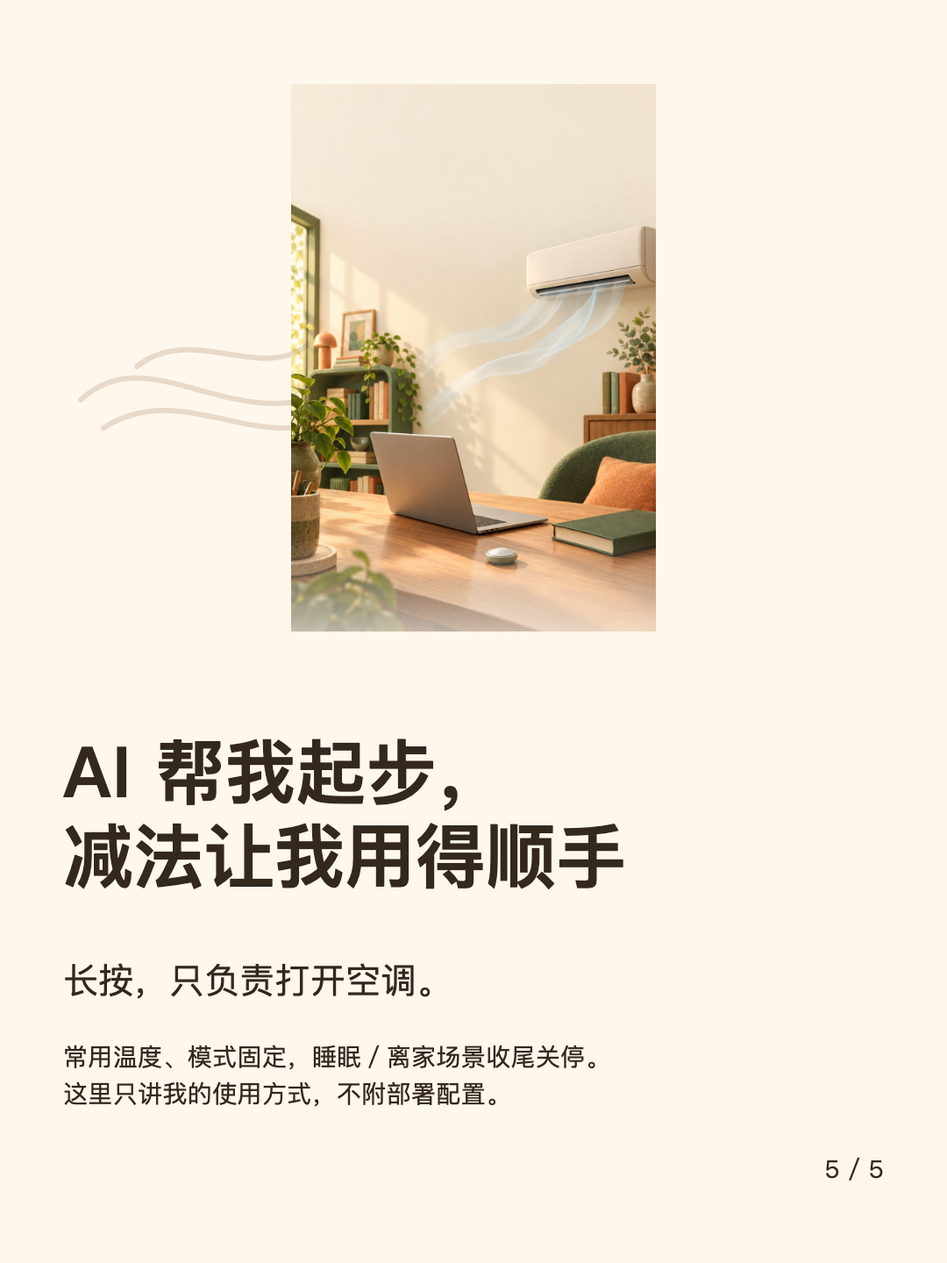
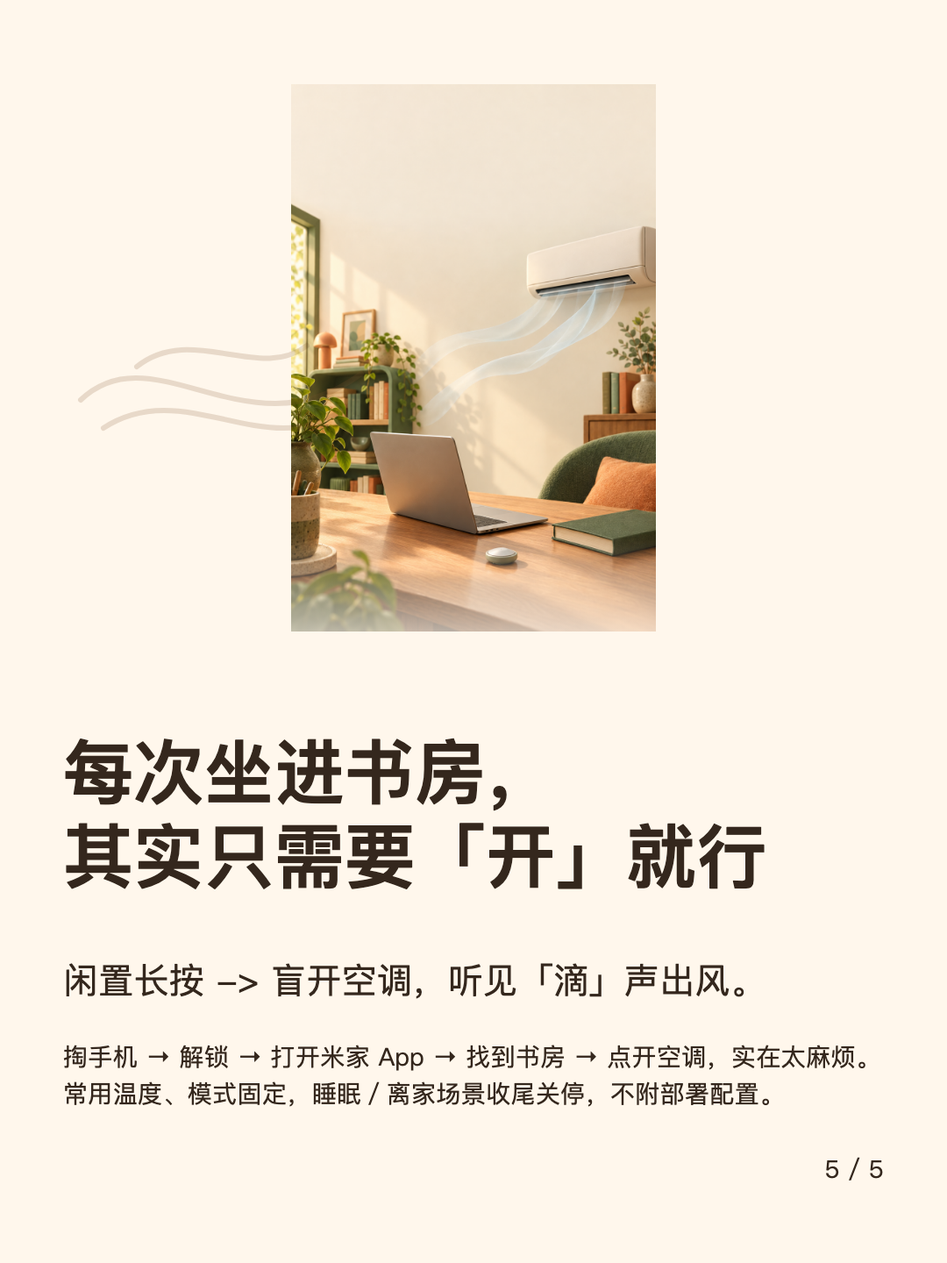
feat(tia-457): align Blog and 15 XHS 3:4 cards to canonical four-act text

Changed region(s): [[0.0611, 0.5625, 0.825, 0.7188], [0.0611, 0.75, 0.9167, 0.875]]

diff --git a/demos/xhs-study-switch-ac/index.html b/demos/xhs-study-switch-ac/index.html
@@ -8,7 +8,7 @@
 </style></head>
 <body><header class="site-header shell"><div class="site-header__bar"><a class="brand" href="/"><span class="brand__mark" aria-hidden="true">L</span><span>LeePepe</span></a><nav class="nav" aria-label="主导航"><a href="/">首页</a><a href="/learn/">求知</a><a href="/thoughts/">思考</a><a href="/demos/" aria-current="page">Demos</a></nav><div class="theme-toggle" aria-label="主题"><button type="button" data-theme-choice="light" aria-pressed="false">浅色</button><button type="button" data-theme-choice="dark" aria-pressed="false">深色</button><button type="button" data-theme-choice="system" aria-pressed="false">系统</button></div></div></header><main class="xhs-shell">
 <nav class="crumbs" aria-label="面包屑"><a href="/">← 返回 Blog 首页</a><span aria-hidden="true">·</span><a href="/demos/">返回 Demos 总目录</a></nav>
-<header class="hero"><p class="eyebrow">TIA-457 · XHS STUDY SWITCH</p><h1>长按开空调，少一道选择题</h1><p>把一篇真实的智能家居生活记录，拆成三套真正不同的 3:4 小红书研究样张（每套 5 张，共 15 张）。故事已补全装修搁置、2025 年 AI 起步、睡前买多的测试键和闲置长按。这里展示的是离线制图与研究证据，不是小红书已发布内容。</p><p><a href="/thoughts/study-switch-long-press-ac/">阅读完整更新后的 Blog 故事 →</a> · T2 故事更新；T1 制图与工具实测保留，未重新生成 AI 底图。</p></header>
+<header class="hero"><p class="eyebrow">TIA-457 · XHS STUDY SWITCH</p><h1>长按开空调，少一道选择题</h1><p>把一篇真实的智能家居生活记录，拆成三套真正不同的 3:4 小红书研究样张（每套 5 张，共 15 张）。完整呈现钦定四幕：「装修搁置：这七七八八的东西也太多了」「25 年 AI 破局：搭好骨架，实测自己抠」「买多了的无线开关：随手放书房当测试键」与「夏天的神来之笔：闲置长按 → 盲开空调（闲置长按 -> 盲开空调）」。这里展示的是离线制图与研究证据，不是小红书已发布内容。</p><p><a href="/thoughts/study-switch-long-press-ac/">阅读完整钦定四幕 Blog 正文 →</a> · T3 钦定四幕对齐更新；T1 制图与工具实测保留，未重新生成 AI 底图。</p></header>
 <section class="section" aria-labelledby="research"><h2 id="research">先看结论</h2><div class="summary-grid"><article class="panel"><h3>内容链路</h3><p>原始文章 → HTML/CSS/SVG 排版 → Playwright 截图 → 人工检查 → 用户在官方平台手动发布。</p><p><strong>长按 = 打开空调</strong>，不是 toggle；24℃只作示意，99%是原文修辞。</p></article><article class="panel"><h3>当前推荐</h3><p>离线生成原创 PNG，人工检查事实、素材与 AI 标识，再由用户在官方创作者平台完成操作。没有登录、上传、保存草稿或发布。</p></article><article class="panel"><h3>安全边界</h3><p>不采集 Cookie，不开远程调试，不绕过验证码，不做签名/API 规避。Bridge/Playwright 草稿流仅是未来在获授权后评估的条件选项。</p></article></div></section>
 <section class="section"><h2>能力实测与版本 caveat</h2><div class="matrix"><article class="panel"><h3>可复现成功</h3><ul><li>Magpie <code>/v1/models</code>：HTTP 200。</li><li>Raven local GPT-5.3-codex SVG：HTTP 200，10.24s。</li><li>GPT-4.1 vision：HTTP 200，4.27s。</li><li>Gemini 4 Argon bounded SVG：HTTP 200，20.5s，valid XML。</li><li>Copilot builtin image_generation：两张 1024×1536 原创背景，模型未披露。</li></ul></article><article class="panel"><h3>不可用或需谨慎</h3><ul><li>初始 Gemini 长 SVG 曾截断；展示 bounded iteration，不抹掉迭代事实。</li><li>Cursor Claude Opus 4.8 / Fable 5.2：HTTP 429 quota，未购买 credits。</li><li>GPT image endpoints：HTTP 404；authenticated Raven models HTTP 200，但 image endpoint 仍 404。</li><li><code>gpt-image-2.5-flare</code> 出现在 models，但 responses HTTP 400 model_not_supported。</li></ul></article></div><p class="source-list">证据：Goal handoff 的 source-verified research findings 与本地探针摘要（未将私有工作文件路径发布）；公开页仅保留已脱敏结论。证据置信度最高为 MEDIUM，版本与平台条款需独立复核。</p></section>
 <section class="section"><h2>工具链与风险矩阵</h2><div class="matrix"><article class="panel"><h3>公开源码观察</h3><ul><li><a href="https://github.com/bozhouDev/xhs-article-to-images">bozhouDev/xhs-article-to-images</a>：HTML/Playwright，版式建议不是平台规则。</li><li><a href="https://github.com/Ming-H/xhs-image-generator">Ming-H/xhs-image-generator</a>：frontmatter 边界错误时，前两个 <code>---</code> 可能吞掉内容。</li><li><a href="https://github.com/chang-zy/xiaohongshu-skill">chang-zy/xiaohongshu-skill</a> / <a href="https://github.com/autoclaw-cc/xiaohongshu-skills">autoclaw</a>：Bridge 草稿操作不等于 live draft 或授权。</li><li><a href="https://github.com/xpzouying/xiaohongshu-mcp">xpzouying MCP</a>、<a href="https://github.com/jobsonlook/xhs-mcp">jobsonlook MCP</a>：能力边界不同，热度不是安全证据。</li></ul></article><article class="panel"><h3>编辑建议 ≠ 官方规则</h3><p>≤40% 文字、≤3 行、无首行缩进是编辑/风险控制建议，没有独立官方证据证明是强制规则；没有 safe daily posting guarantee。AI 内容创作不等同于无人值守账号操作。当前推荐人工在官方平台操作并按要求标识 AI 内容。</p><p><strong>Genjutsu</strong> 是本机 native SwiftUI UI/动效设计 skill，不是 Web 栅格生图模型。离开书房、睡眠与离家关停是原文描述的家庭 cleanup 行为，本页不提供可部署自动化。</p></article></div></section><section class="section"><h2>三套样张画廊</h2><div id="suites"></div></section>
@@ -22,25 +22,25 @@ const suites=[
   {
     "id": "style-a",
     "name": "Style A · 指尖减法",
-    "summary": "暖纸杂志五页：从装修搁置与 AI 起步，到睡前买多的测试键，再把米家五步收束成一个长按。",
-    "title": "买多的开关，替我做了减法",
-    "body": "最顺手的空调改动，来自买多的一颗开关。\n它先当书房测试键，后来才接住了找遥控器的痛点。\n\n装修时想装 NAS，HA、Node-RED 门槛高，一直搁置。\n2025 年，AI 帮我生成 YAML 和初步 Node-RED 骨架。\n实机测试、微调，还是得我自己来。\n\n为了睡前关灯、拉窗帘，我把无线开关买多了。\n一颗放书房桌上，连进 Node-RED 当测试键。\n\n夏天只剩一个共用遥控器，米家也总打断思路。\n掏手机→解锁→打开米家→找书房→点开机。\n在 Node-RED 里，把闲置长按接上了书房空调。\n\n常用温度和模式固定，关停由睡眠、离家场景收尾。\n每次坐下只需要「开」，长按，只负责打开。\nAI 让我能开始，减法让手边这一下更确定。\n\n#智能家居 #减法设计 #书房 #NodeRED",
+    "summary": "暖纸杂志五页：从「这七七八八的东西也太多了」与「25 年 AI 破局：搭好骨架，实测自己抠」，到「买多了的无线开关：随手放书房当测试键」，再到「闲置长按 → 盲开空调」。",
+    "title": "为什么我给书房按键加了长按开空调",
+    "body": "装修搁置：这七七八八的东西也太多了。\n想装台 NAS 玩全屋智能，被 HA 和 Node-RED 的配置劝退搁置。\n\n25 年 AI 破局：搭好骨架，实测自己抠。\nAI 直接帮我写 YAML 配置、搭初步的 Node-RED 流程。\n真正的实机测试、延迟调节和边界排障还得我自己动手一点点来。\n\n买多了的无线开关：随手放书房当测试键。\n本想睡觉时「一键入眠」（顺手关灯、关窗帘），结果不小心买多了。\n多出来的一个放书房桌边，从 Node-RED 连条流当平时调试的测试键。\n\n夏天的神来之笔：闲置长按 → 盲开空调（闲置长按 -> 盲开空调）。\n家里只剩一个空调遥控器，米家 App 每次都要走完五步：\n掏手机 → 解锁 → 打开米家 App → 找到书房 → 点开空调。\n\n直接在 Node-RED 里把闲置「长按」接上书房空调。\n因为每次坐进书房，其实只需要「开」就行。\n长按一下听见「滴」声出风，零心智负担。\n\n#智能家居 #减法设计 #书房 #NodeRED #HomeAssistant",
     "count": 5
   },
   {
     "id": "style-b",
     "name": "Style B · 手边的一点暖光",
-    "summary": "暖光微缩五页：旧 AI 场景陪着完整因果故事，讲清 AI 骨架、人工微调、睡前剩余开关与闲置长按。",
-    "title": "一颗测试键，后来管了空调",
-    "body": "这颗书房开关，本来不是为空调买的。\n绕了一圈才发现，买多的东西也能让日常更顺手。\n\n装修想装 NAS，但 HA 和 Node-RED 太难，我先搁置。\n到了 2025 年，AI 能生成 YAML、搭初步 Node-RED 骨架。\n设备上的实机测试和微调，没有省，仍然是我自己来。\n\n睡前想关灯、拉窗帘，就买了无线开关，结果买多。\n多的一颗落在书房桌上，在 Node-RED 里当测试键。\n\n夏天只剩一个共用遥控器，不想总去找。\n掏手机→解锁→打开米家→找书房→点开机，也挺分心。\n于是就在 Node-RED，把闲着的长按接上书房空调。\n\n温度、模式固定，睡眠和离家会收尾关停。\n长按，只负责打开，听见「滴」就结束。\nAI 帮我起步，好设计帮我少做选择。\n\n#智能家居 #书房日常 #减法设计 #生活小改动",
+    "summary": "暖光微缩五页：AI 场景插画配合四幕原话，讲清装修搁置、25 年 AI 搭好骨架实测自己抠、买多了的无线开关当测试键与闲置长按盲开空调。",
+    "title": "买多了的无线开关，成了盲开空调神键",
+    "body": "装修那会儿想装台 NAS 玩全屋智能，打开 HA 和 Node-RED 一看：\n这七七八八的东西也太多了，入手门槛高得劝退，就搁置了一段时间。\n\n25 年 AI 破局：搭好骨架，实测自己抠。\nAI 能帮我写 YAML 配置、完成初步的 Node-RED 流程。\n但真正的实机测试、延迟调节和边界排障还得我自己动手一点点来。\n\n买多了的无线开关：随手放书房当测试键。\n当时最刚需是睡觉时「一键入眠」（顺手关灯、关窗帘），结果买多了。\n多出来的一个随手放书房桌边，从 Node-RED 连条流当测试键。\n\n到了夏天书房需要开空调，家里偏偏只剩一个空调遥控器了。\n掏手机 → 解锁 → 打开米家 App → 找到书房 → 点开空调，实在太麻烦。\n低头看见桌边无线开关，「长按」刚好闲置（闲置长按 -> 盲开空调）。\n\n干脆直接在 Node-RED 里把「长按」接上了书房空调。\n因为每次坐进书房，其实只需要「开」就行。\n长按一下听见「滴」声出风，零心智负担。\n\n#智能家居 #书房日常 #减法设计 #NodeRED #生活小改动",
     "count": 5
   },
   {
     "id": "style-c",
     "name": "Style C · 找东西的小迷宫",
-    "summary": "奶油手绘五页：画出装修高台阶、AI 文档与人工扳手、睡前到书房的分岔，再走完米家五步和长按出风。",
-    "title": "多买一颗，少绕一圈",
-    "body": "我只想吹个风，不想先找遥控器。\n后来解决这件事的，是桌边买多的一颗测试开关。\n\n装修那会儿想装 NAS，HA、Node-RED 门槛高，只好搁置。\n2025 年有了 AI，YAML 和初步 Node-RED 骨架先搭起来。\n剩下的实机测试、微调，是我自己一点点做的。\n\n为了睡前关灯、拉窗帘，无线开关不小心买多了。\n一颗留在书房桌上，接进 Node-RED 做测试键。\n\n夏天只剩一个共用遥控器，找它烦，用米家也绕。\n掏手机→解锁→打开米家→找书房→点开机。\n在 Node-RED 里，让闲置长按接上书房空调。\n\n常用温度、模式固定，睡眠／离家场景收尾关停。\n长按，只负责打开，不是开关切换。\nAI 降低了起步门槛，减法把复杂留在了背后。\n\n#智能家居 #书房日常 #减法设计 #NodeRED",
+    "summary": "奶油手绘五页：手绘分镜还原「这七七八八的东西也太多了」「搭好骨架，实测自己抠」「买多了的无线开关当测试键」与米家五步对比长按出风。",
+    "title": "闲置长按盲开空调，少一个遥控器",
+    "body": "装修搁置：这七七八八的东西也太多了。\n当时想装台 NAS 玩全屋智能，结果被 HA 和 Node-RED 的门槛劝退搁置。\n\n25 年 AI 破局：搭好骨架，实测自己抠。\nAI 帮我写 YAML、搭初步 Node-RED 流程；\n实机测试、延迟调节和边界排障还得我自己动手一点点来。\n\n买多了的无线开关：随手放书房当测试键。\n为睡觉「一键入眠」（顺手关灯、关窗帘）买多了开关，\n随手放书房桌边，在 Node-RED 里连了一条流当测试键。\n\n夏天的神来之笔：闲置长按 → 盲开空调（闲置长按 -> 盲开空调）。\n家里只剩一个空调遥控器，用米家 App 开又太麻烦：\n掏手机 → 解锁 → 打开米家 App → 找到书房 → 点开空调。\n\n干脆在 Node-RED 里把闲置「长按」接上书房空调。\n因为每次坐进书房，其实只需要「开」就行，\n长按一下听见「滴」声出风，零心智负担。\n\n#智能家居 #书房日常 #减法设计 #NodeRED #HomeAssistant",
     "count": 5
   }
 ];

diff --git a/thoughts/study-switch-long-press-ac/index.html b/thoughts/study-switch-long-press-ac/index.html
@@ -5,7 +5,7 @@
 <meta name="viewport" content="width=device-width, initial-scale=1">
 <link rel="icon" href="data:,">
 <title>为什么我给书房按键加了「长按开空调」 · Lee Pepe</title>
-<meta name="description" content="装修想装 NAS，却因 HA / Node-RED 门槛高搁置；2025 年 AI 帮我生成 YAML 和初步骨架，实机测试、微调仍得自己来。为睡前关灯、拉窗帘买多的一颗无线开关，先放书房当 Node-RED 测试键；夏天只剩一个共用遥控器，米家又让人分心，于是在 Node-RED 把闲置长按接上空调。AI 让我能开始，减法让每次坐下只需一个确定的「开」。">
+<meta name="description" content="装修时想装 NAS 玩全屋智能，被 HA 和 Node-RED 七七八八的配置劝退搁置；25 年有了 AI 帮写 YAML、搭 Node-RED 初步流，实测和微调再自己动手。为睡前「一键入眠」买多的一颗无线开关随手放在书房当测试键，到了夏天只剩一个空调遥控器、米家 App 开机又太繁琐，干脆在 Node-RED 里把闲置的「长按」接上书房空调——因为每次坐进书房，其实只需要「开」就行。">
 <link rel="alternate" type="application/atom+xml" title="Lee Pepe · RSS 订阅" href="/feed.xml">
 <script src="/assets/theme.js"></script>
 <link rel="stylesheet" href="/assets/colors.css">
@@ -31,36 +31,19 @@
           <ul class="tags" aria-label="标签"><li><a class="tag" href="/tags/#t19">智能家居</a></li><li><a class="tag" href="/tags/#t13">书房</a></li><li><a class="tag" href="/tags/#t15">减法设计</a></li><li><a class="tag" href="/tags/#t7">Home Assistant</a></li></ul>
           <h1>为什么我给书房按键加了「长按开空调」</h1>
           <p class="lede">少一个遥控器，多一次顺手的肌肉记忆</p>
-          <div class="post-meta"><time datetime="2026-11-09">2026 年 11 月 9 日</time><span class="dot" aria-hidden="true">·</span><span>约 1,600 字</span><span class="dot" aria-hidden="true">·</span><span>阅读约 4 分钟</span></div>
+          <div class="post-meta"><time datetime="2026-11-09">2026 年 11 月 9 日</time><span class="dot" aria-hidden="true">·</span><span>约 600 字</span><span class="dot" aria-hidden="true">·</span><span>阅读约 3 分钟</span></div>
         </header>
         <div class="prose">
-<blockquote><p><strong>一句话结论</strong>：装修想装 NAS，却因 HA / Node-RED 门槛高搁置；2025 年 AI 帮我生成 YAML 和初步骨架，实机测试、微调仍得自己来。为睡前关灯、拉窗帘买多的一颗无线开关，先放书房当 Node-RED 测试键；夏天只剩一个共用遥控器，米家又让人分心，于是在 Node-RED 把闲置长按接上空调。AI 让我能开始，减法让每次坐下只需一个确定的「开」。</p></blockquote>
-<p>现在坐进书房，想开空调时，我只要把手伸向桌边的无线按键，长按一下，听见「滴」的一声出风就行。</p>
-<p>这颗开关不是专门为了空调买的。它先是一颗买多了的开关，后来当了测试键，最后才接住了一个很小、但每天都会碰到的生活痛点。往前倒一倒，事情还得从装修时说起。</p>
-<h2 id="sec-1">一、装修时搁置的想法，到了 2025 年才开始动手<a class="anchor" href="#sec-1" aria-label="本节链接">#</a></h2>
-<p>装修那会儿，我就想装台 NAS，顺便折腾一下全屋智能家居。可真去看 Home Assistant（HA）和 Node-RED，发现要弄懂的东西不少。想法很热闹，上手门槛也确实高，于是一直搁置着。</p>
-<p>后来有了 AI，最明显的变化不是家里突然全自动了，而是我终于有办法先迈出第一步：<strong>让 AI 帮我生成 YAML 配置和 Node-RED 流。</strong></p>
-<p>不过，2025 年那会儿，AI 还不算完全成熟。它能帮我搭出初步的 Node-RED 骨架，但离在家里真正用起来，还隔着不少实际问题。把设备接上后，实机测试、检查动作对不对、再一点点微调，还是得我自己动手。</p>
-<p>对我来说，AI 降低的是 NAS、HA、Node-RED 的折腾门槛，不是把测试和判断都替我做完。先有一份能改的骨架，比盯着空白配置不知道从哪儿开始，已经轻松很多。</p>
-<h2 id="sec-2">二、为了睡前关灯、拉窗帘，结果买多了一颗开关<a class="anchor" href="#sec-2" aria-label="本节链接">#</a></h2>
-<p>当时我想做一个睡前「一键入眠」的动作：顺手关灯、拉窗帘，别躺下了还得再起身折腾。所以买了无线开关，结果不小心买多了。</p>
-<p>多出来的那一颗，我就随手放在书房桌上，连进 Node-RED，当平时调试用的测试键。改了流，手边按一按，看看实际设备有没有按预期动作，挺方便。</p>
-<p>所以，它一开始的工作是<strong>书房测试键</strong>，不是空调遥控器的替代品。只是碰巧多出来，又碰巧一直放在我手边，后面的改动才有了一个顺手的落点。</p>
-<h2 id="sec-3">三、夏天只剩一个共用遥控器，闲着的长按正好派上用场<a class="anchor" href="#sec-3" aria-label="本节链接">#</a></h2>
-<p>到了夏天，书房待久了总想开空调。偏偏家里的空调遥控器丢了一个，只剩一个共用的。想吹个风，得先在桌面、沙发缝或者卧室床头找它。</p>
-<p>我也试过用米家 App 开。手机当然能做到，但每次都得走完这几步：</p>
-<blockquote><p><strong>掏手机 → 解锁 → 打开米家 → 找书房 → 点开机。</strong></p></blockquote>
-<p>明明只是想让书房凉快一点，注意力却先被这串操作带走了。前戏不是什么大麻烦，但确实很打断思路。</p>
-<p>后来我看着桌边那颗多出来的测试开关，发现它的<strong>「长按」动作正好闲着</strong>。既然开关已经连在 Node-RED 里，干脆就在那里把这个闲置长按接上书房空调。</p>
-<blockquote><p><strong>长按一下书房按键，直接把空调打开。</strong></p></blockquote>
-<p>这样每次坐下，不用低头看屏幕，也不用先去找遥控器。手伸过去长按，听到空调「滴」的一声，风出来，事情就结束了。用的还是原先桌边那颗测试开关，并不是为了空调再买一颗。</p>
-<h2 id="sec-4">四、每次只需要「开」，就别让这一秒变成选择题<a class="anchor" href="#sec-4" aria-label="本节链接">#</a></h2>
-<p>给这个动作收尾时，我没有加上单击调温、双击切模式之类的组合。也没有把长按做成开关切换。最后只保留了一件事：<strong>长按 = 开空调。</strong></p>
-<p>因为每次坐进书房按它，我其实只需要「开」就行。书房常用的温度和模式本来就固定，不必每次重新选择；以前提到的 24℃ 或 25℃只是举例，不是这里公开的一套实际温度配置。</p>
-<p>至于关空调，人离开书房，或者已有的睡眠、离家关停场景，会一起收尾。这是在描述我家的使用方式，不是附上一份可以直接部署的自动化配置。</p>
-<p>这一路折腾下来，我反而更确定了三件事：</p>
-<ol><li><strong>AI 让我能开始，但实际设备还是得自己测。</strong> 它给了我 YAML 和初步流骨架，后面的实机测试、微调不能省。</li><li><strong>真痛点长在生活裂缝里，多余的东西也能接住它。</strong> 一颗为睡前场景买多的测试开关，最后解决的是「现在就想开空调，可遥控器又得找」。</li><li><strong>最高频的意图，应该砍掉分支选项。</strong> 原来用「99%」形容只想打开，是口语修辞，不是测量数据。既然常常只是想开，就没必要在按下去的那一秒再做一道选择题。</li></ol>
-<p>不管背后是 NAS、Home Assistant 还是 Node-RED，舒服的不是规则有多复杂，而是复杂度留在背后，确定性落在手边那颗多出来的开关上。少一个遥控器，多一次顺手的肌肉记忆。</p>
+<blockquote><p><strong>一句话结论</strong>：装修时想装 NAS 玩全屋智能，被 HA 和 Node-RED 七七八八的配置劝退搁置；25 年有了 AI 帮写 YAML、搭 Node-RED 初步流，实测和微调再自己动手。为睡前「一键入眠」买多的一颗无线开关随手放在书房当测试键，到了夏天只剩一个空调遥控器、米家 App 开机又太繁琐，干脆在 Node-RED 里把闲置的「长按」接上书房空调——因为每次坐进书房，其实只需要「开」就行。</p></blockquote>
+<h2 id="sec-1">一、装修搁置：这七七八八的东西也太多了<a class="anchor" href="#sec-1" aria-label="本节链接">#</a></h2>
+<p>其实装修那会儿我就想装台 NAS 玩一玩全屋智能家居。当时满心欢喜地想开始自己搞，结果打开 Home Assistant（HA）和 Node-RED 一看，搞着搞着就不对了——这七七八八的配置、实体和节点也太多了，入手门槛高得劝退，这事就搁置了一段时间。</p>
+<h2 id="sec-2">二、25 年 AI 破局：搭好骨架，实测自己抠<a class="anchor" href="#sec-2" aria-label="本节链接">#</a></h2>
+<p>转机是有了 AI。最大的不同在于，它终于可以直接帮我写 YAML 配置、搭 Node-RED 流了。不过受限于 25 年那会儿 AI 还不够全面，它只能帮我完成初步的 Node-RED 流程，真正的实机测试、延迟调节和边界排障还得我自己动手一点点来。</p>
+<h2 id="sec-3">三、买多了的无线开关：随手放书房当测试键<a class="anchor" href="#sec-3" aria-label="本节链接">#</a></h2>
+<p>当时最刚需的是睡觉时能有一个无线开关实现「一键入眠」（顺手关灯、关窗帘）。结果买开关的时候不小心买多了，多出来的一个没处安放，就在书房桌边随手放了一个，从 Node-RED 里随便连了一条流当平时调试用的测试键。</p>
+<h2 id="sec-4">四、夏天的神来之笔：闲置长按 → 盲开空调<a class="anchor" href="#sec-4" aria-label="本节链接">#</a></h2>
+<p>到了夏天书房需要开空调，家里偏偏只剩一个空调遥控器了。本来试着用米家 App 开，但每次都要「掏手机 → 解锁 → 打开米家 App → 找到书房 → 点开空调」，实在太麻烦了。</p>
+<p>低头看见桌边那个多出来的无线开关，「长按」动作刚好闲置，干脆直接在 Node-RED 里把「长按」接上了书房空调——因为每次坐进书房，其实只需要「开」就行，长按一下听见「滴」声出风，零心智负担。</p>
         </div>
         
         <div class="post-end"><a class="btn btn--secondary" href="/thoughts/"><svg viewBox="0 0 16 16" aria-hidden="true" fill="none" stroke="currentColor" stroke-width="1.75" stroke-linecap="round" stroke-linejoin="round"><path d="M10 3.5 5.5 8l4.5 4.5"/></svg>返回思考与感悟</a></div>
@@ -68,7 +51,7 @@
     </div>
     <aside class="toc" aria-label="本文目录">
       <p class="section-label">目录</p>
-      <ol><li class="l2"><a href="#sec-1" aria-current="true">一、装修时搁置的想法，到了 2025 年才开始动手</a></li><li class="l2"><a href="#sec-2">二、为了睡前关灯、拉窗帘，结果买多了一颗开关</a></li><li class="l2"><a href="#sec-3">三、夏天只剩一个共用遥控器，闲着的长按正好派上用场</a></li><li class="l2"><a href="#sec-4">四、每次只需要「开」，就别让这一秒变成选择题</a></li></ol>
+      <ol><li class="l2"><a href="#sec-1" aria-current="true">一、装修搁置：这七七八八的东西也太多了</a></li><li class="l2"><a href="#sec-2">二、25 年 AI 破局：搭好骨架，实测自己抠</a></li><li class="l2"><a href="#sec-3">三、买多了的无线开关：随手放书房当测试键</a></li><li class="l2"><a href="#sec-4">四、夏天的神来之笔：闲置长按 → 盲开空调</a></li></ol>
     </aside>
   </div>
 </main>

diff --git a/index.html b/index.html
@@ -50,9 +50,9 @@
   <ul class="tags" aria-label="标签"><li><a class="tag" href="/tags/#t0">SwiftUI</a></li><li><a class="tag" href="/tags/#t1">Liquid Glass</a></li><li><a class="tag" href="/tags/#t10">TabView</a></li></ul>
 </li>
 <li class="post-item">
-  <div class="post-meta"><time datetime="2026-11-09">2026 年 11 月 9 日</time><span class="dot" aria-hidden="true">·</span><span>思考</span><span class="dot" aria-hidden="true">·</span><span>阅读约 4 分钟</span></div>
+  <div class="post-meta"><time datetime="2026-11-09">2026 年 11 月 9 日</time><span class="dot" aria-hidden="true">·</span><span>思考</span><span class="dot" aria-hidden="true">·</span><span>阅读约 3 分钟</span></div>
   <h2><a href="/thoughts/study-switch-long-press-ac/">为什么我给书房按键加了「长按开空调」</a></h2>
-  <p>装修想装 NAS，却因 HA / Node-RED 门槛高搁置；2025 年 AI 帮我生成 YAML 和初步骨架，实机测试、微调仍得自己来。为睡前关灯、拉窗帘买多的一颗无线开关，先放书房当 Node-RED 测试键；夏天只剩一个共用遥控器，米家又让人分心，于是在 Node-RED 把闲置长按接上空调。AI 让我能开始，减法让每次坐下只需一个确定的「开」。</p>
+  <p>装修时想装 NAS 玩全屋智能，被 HA 和 Node-RED 七七八八的配置劝退搁置；25 年有了 AI 帮写 YAML、搭 Node-RED 初步流，实测和微调再自己动手。为睡前「一键入眠」买多的一颗无线开关随手放在书房当测试键，到了夏天只剩一个空调遥控器、米家 App 开机又太繁琐，干脆在 Node-RED 里把闲置的「长按」接上书房空调——因为每次坐进书房，其实只需要「开」就行。</p>
   <ul class="tags" aria-label="标签"><li><a class="tag" href="/tags/#t19">智能家居</a></li><li><a class="tag" href="/tags/#t13">书房</a></li><li><a class="tag" href="/tags/#t15">减法设计</a></li></ul>
 </li>
 <li class="post-item">

diff --git a/thoughts/index.html b/thoughts/index.html
@@ -32,9 +32,9 @@
       <h2 id="series-list-heading" class="visually-hidden">思考与感悟文章列表</h2>
       <ol class="post-list">
 <li class="post-item">
-  <div class="post-meta"><time datetime="2026-11-09">2026 年 11 月 9 日</time><span class="dot" aria-hidden="true">·</span><span>思考</span><span class="dot" aria-hidden="true">·</span><span>阅读约 4 分钟</span></div>
+  <div class="post-meta"><time datetime="2026-11-09">2026 年 11 月 9 日</time><span class="dot" aria-hidden="true">·</span><span>思考</span><span class="dot" aria-hidden="true">·</span><span>阅读约 3 分钟</span></div>
   <h2><a href="/thoughts/study-switch-long-press-ac/">为什么我给书房按键加了「长按开空调」</a></h2>
-  <p>装修想装 NAS，却因 HA / Node-RED 门槛高搁置；2025 年 AI 帮我生成 YAML 和初步骨架，实机测试、微调仍得自己来。为睡前关灯、拉窗帘买多的一颗无线开关，先放书房当 Node-RED 测试键；夏天只剩一个共用遥控器，米家又让人分心，于是在 Node-RED 把闲置长按接上空调。AI 让我能开始，减法让每次坐下只需一个确定的「开」。</p>
+  <p>装修时想装 NAS 玩全屋智能，被 HA 和 Node-RED 七七八八的配置劝退搁置；25 年有了 AI 帮写 YAML、搭 Node-RED 初步流，实测和微调再自己动手。为睡前「一键入眠」买多的一颗无线开关随手放在书房当测试键，到了夏天只剩一个空调遥控器、米家 App 开机又太繁琐，干脆在 Node-RED 里把闲置的「长按」接上书房空调——因为每次坐进书房，其实只需要「开」就行。</p>
   <ul class="tags" aria-label="标签"><li><a class="tag" href="/tags/#t19">智能家居</a></li><li><a class="tag" href="/tags/#t13">书房</a></li><li><a class="tag" href="/tags/#t15">减法设计</a></li></ul>
 </li>
       </ol>

diff --git a/demos/xhs-study-switch-ac/report.md b/demos/xhs-study-switch-ac/report.md
@@ -8,11 +8,15 @@
 
 长按明确是 **ON／打开空调**，不是 toggle。24℃是文章里的示例，不是已验证配置；“99%”是原文修辞，不是测量。离开书房、睡眠与离家时的收尾是作者描述的家庭行为，不是本页提供的可部署自动化或接线教程。
 
-## T2 · 完整故事更新（不重做 T1 实测）
+## T3 · 钦定四幕正文与卡片对齐（不重做 T1 实测）
 
-当前样张为 **A5 / B5 / C5，共 15 张**，配套三份独立口语稿。先更新唯一源文章及索引，再用 `build_site.py` 生成并核对 [完整 Blog 故事](/thoughts/study-switch-long-press-ac/)，最后重排卡片。
+当前样张为 **A5 / B5 / C5，共 15 张**，配套三份独立口语稿。基于已落盘的钦定四幕唯一源文章，用 `build_site.py` 生成并核对 [完整 Blog 故事](/thoughts/study-switch-long-press-ac/)，再重排卡片。
 
-每套图和每份正文都保留完整因果链：装修时想装 NAS，却因 HA / Node-RED 门槛高搁置；2025 年 AI 帮生成 YAML 与初步流骨架，实机测试、微调仍由作者完成；为了睡前关灯、拉窗帘买多的无线开关，先放书房桌上当 Node-RED 测试键；夏天只剩一个共用遥控器，米家要经过「掏手机 → 解锁 → 打开米家 → 找书房 → 点开机」，于是把闲置长按接上书房空调。每次坐下只需要开，固定温度/模式与已有睡眠、离家收尾让这个动作不必再做选择。
+每套图和每份正文都对齐钦定四幕原话：
+1. **【装修搁置：这七七八八的东西也太多了】** 装修那会儿想装台 NAS 玩全屋智能，被 HA 和 Node-RED 七七八八的配置、实体和节点劝退搁置。
+2. **【25 年 AI 破局：搭好骨架，实测自己抠】** AI 能直接帮写 YAML 配置、完成初步的 Node-RED 流程，真正的实机测试、延迟调节和边界排障还得自己动手一点点来。
+3. **【买多了的无线开关：随手放书房当测试键】** 为睡觉时「一键入眠」（顺手关灯、关窗帘）买开关不小心买多了，随手放书房桌边，从 Node-RED 里随便连了一条流当测试键。
+4. **【夏天的神来之笔：闲置长按 → 盲开空调】** 夏天只剩一个空调遥控器，米家 App 每次都要「掏手机 → 解锁 → 打开米家 App → 找到书房 → 点开空调」，干脆在 Node-RED 里把闲置「长按」接上书房空调（闲置长按 -> 盲开空调）——因为每次坐进书房，其实只需要「开」就行，长按一下听见「滴」声出风，零心智负担。
 
 夏天未指定年份，不虚构 AI 厂商、硬件型号、实际温度或操作耗时。T1 的研究表、固定引用、两张原始 AI 背景和 GPT/Gemini 对比探针保留；这次更新故事和排版，没有再次生图或执行平台发帖。
 
